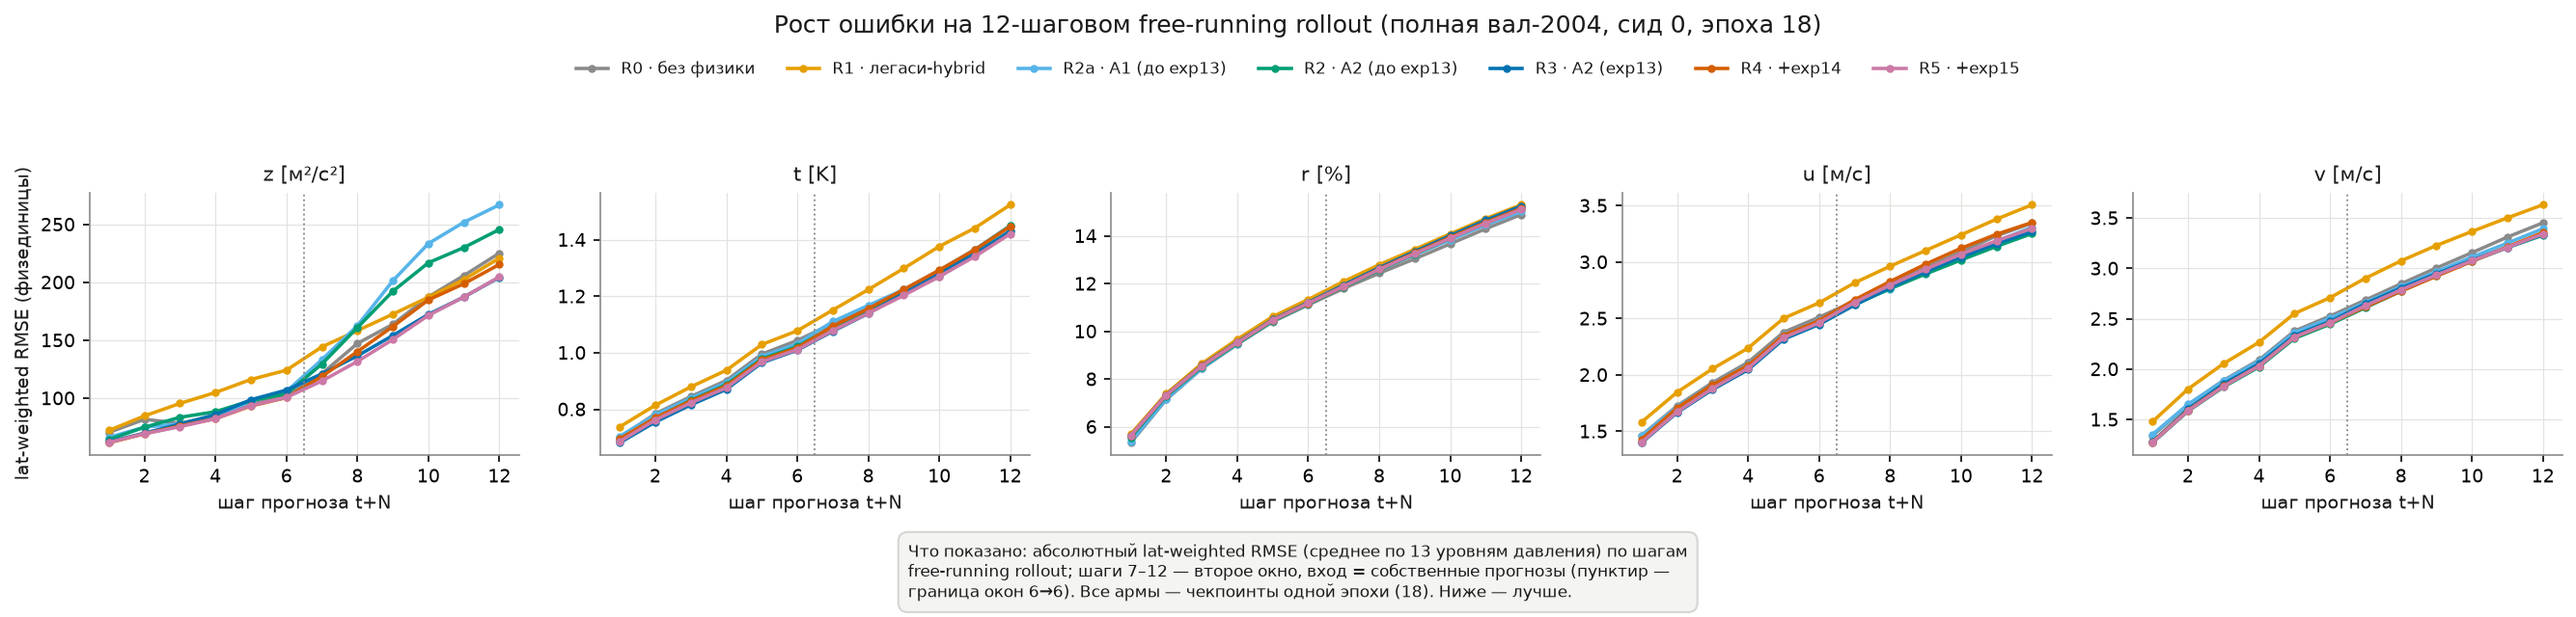
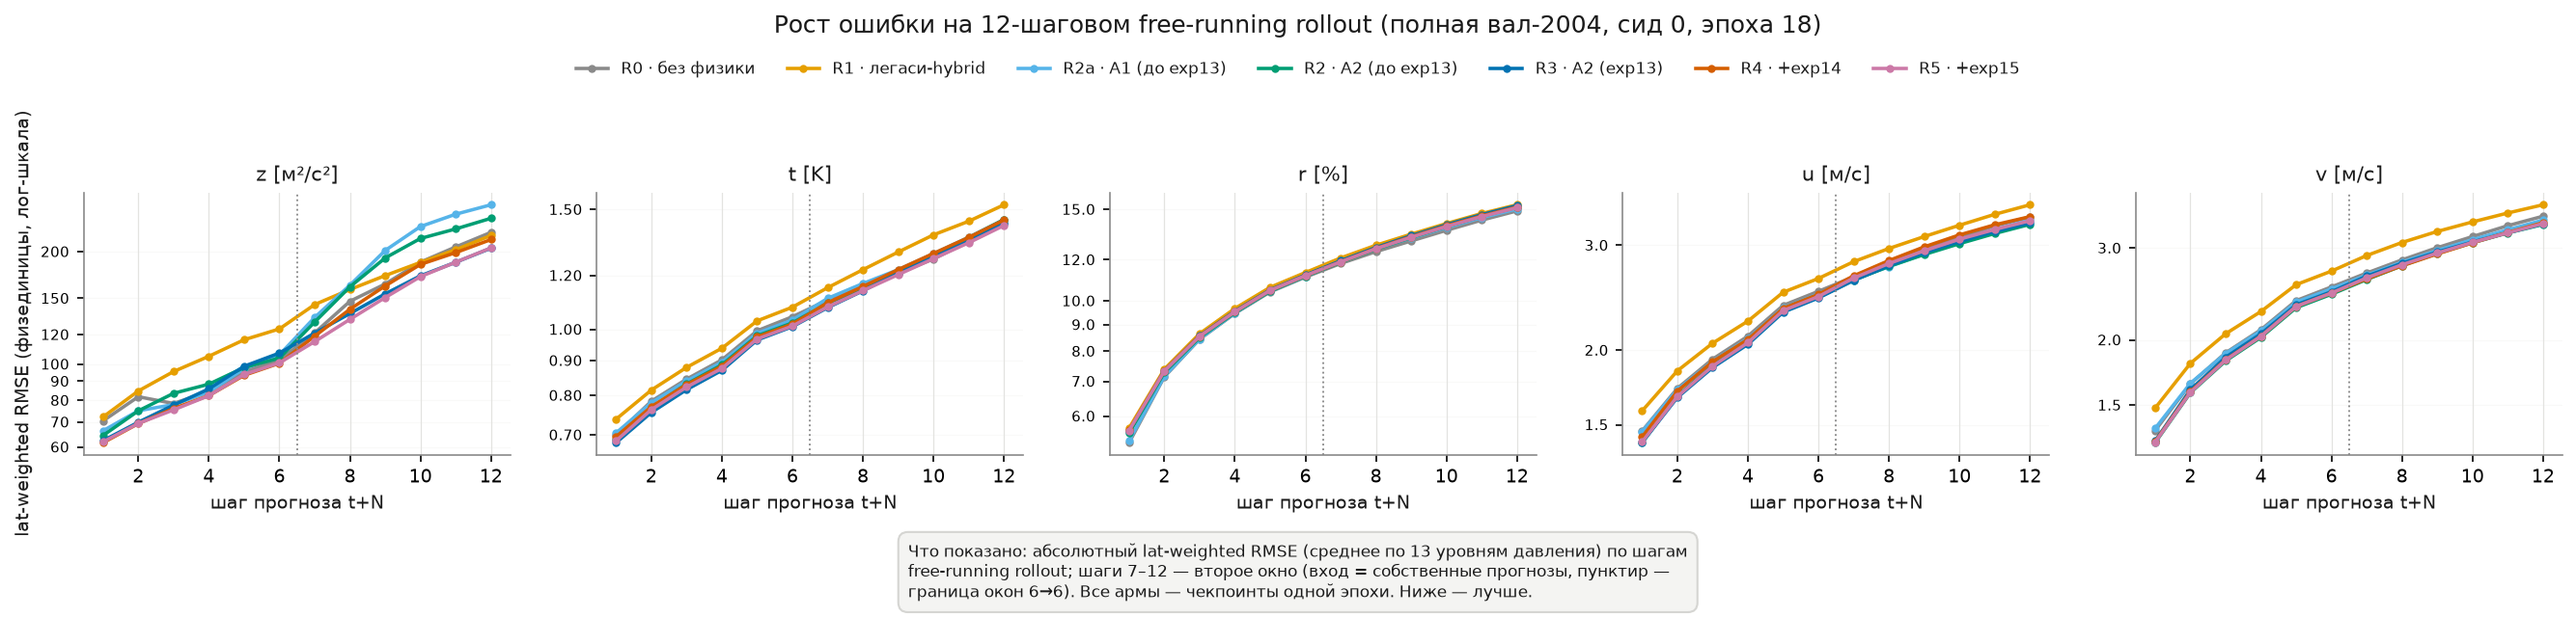
feat(exp16): log-scale Y axis on rollout abs-RMSE figures
render_abs_rmse: pressure-averaged lat-weighted RMSE per rollout step now on a
log Y axis (fractional LogLocator subs 1/1.2/1.5/2..9 for readable ticks in the
narrow per-variable ranges). Regenerated for both t=6 and t=12 waves.
delta_steps stays linear (signed delta-% crosses zero -> log undefined).

diff --git a/docs/experiments/16_model_ablation_ladder/rollout_figures.py b/docs/experiments/16_model_ablation_ladder/rollout_figures.py
@@ -23,6 +23,11 @@ import numpy as np
 
 matplotlib.use("Agg")
 import matplotlib.pyplot as plt  # noqa: E402
+from matplotlib.ticker import LogLocator, NullLocator, ScalarFormatter  # noqa: E402
+
+# Деления лог-оси RMSE: дробные subs дают метки и внутри неполных декад
+# (напр. 120, 150 между 100 и 200; 0.8, 0.9, 1.2 у температуры).
+_LOG_SUBS = (1.0, 1.2, 1.5, 2.0, 3.0, 4.0, 5.0, 6.0, 7.0, 8.0, 9.0)
 
 HERE = Path(__file__).resolve().parent
 ROLLOUT_DIR = HERE / "results" / "rollout"
@@ -238,7 +243,13 @@ def render_abs_rmse(runs: dict[str, dict], dst: Path) -> None:
         ax.set_xlabel("шаг прогноза t+N")
         ax.spines["top"].set_visible(False)
         ax.spines["right"].set_visible(False)
-    axes[0].set_ylabel("lat-weighted RMSE (физединицы)")
+        ax.set_yscale("log")
+        ax.yaxis.set_major_locator(LogLocator(base=10.0, subs=_LOG_SUBS))
+        ax.yaxis.set_major_formatter(ScalarFormatter())
+        ax.yaxis.set_minor_locator(NullLocator())
+        ax.tick_params(axis="y", labelsize=7)
+        ax.grid(True, which="major", axis="y", alpha=0.2)
+    axes[0].set_ylabel("lat-weighted RMSE (физединицы, лог-шкала)")
     fig.suptitle(
         f"Рост ошибки на {n_steps}-шаговом free-running rollout (полная вал-2004, сид 0, {epoch})",
         fontsize=12,
